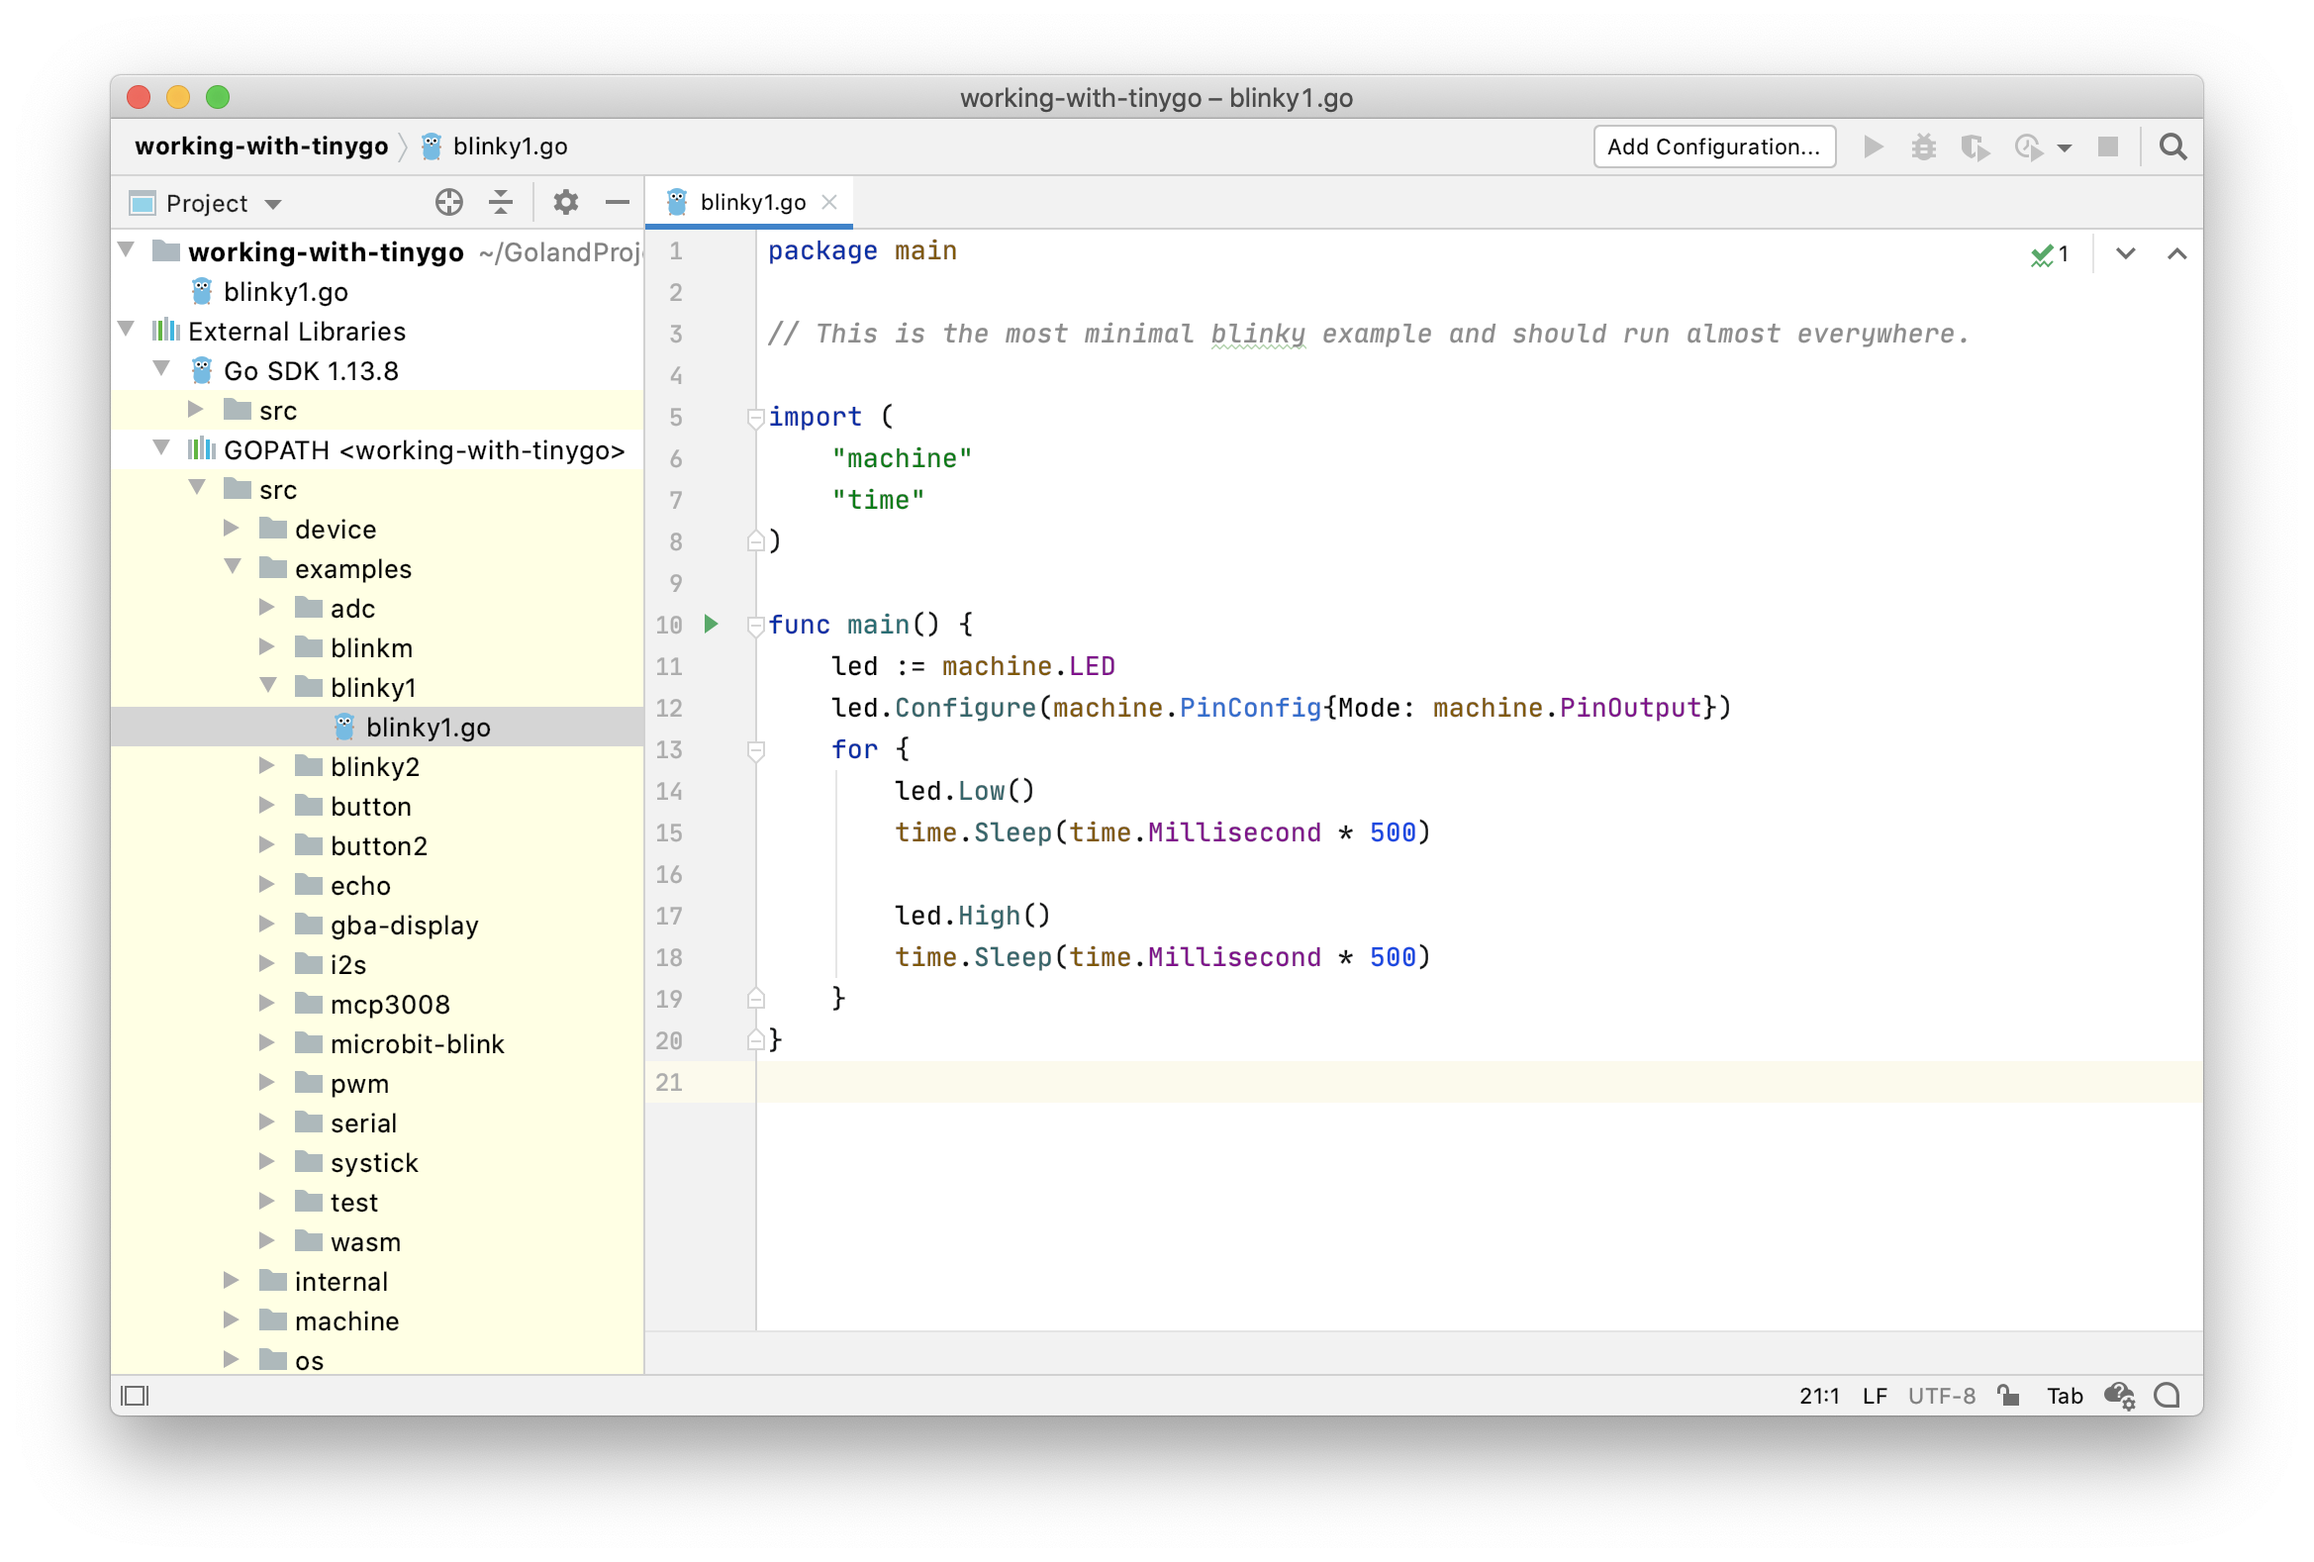
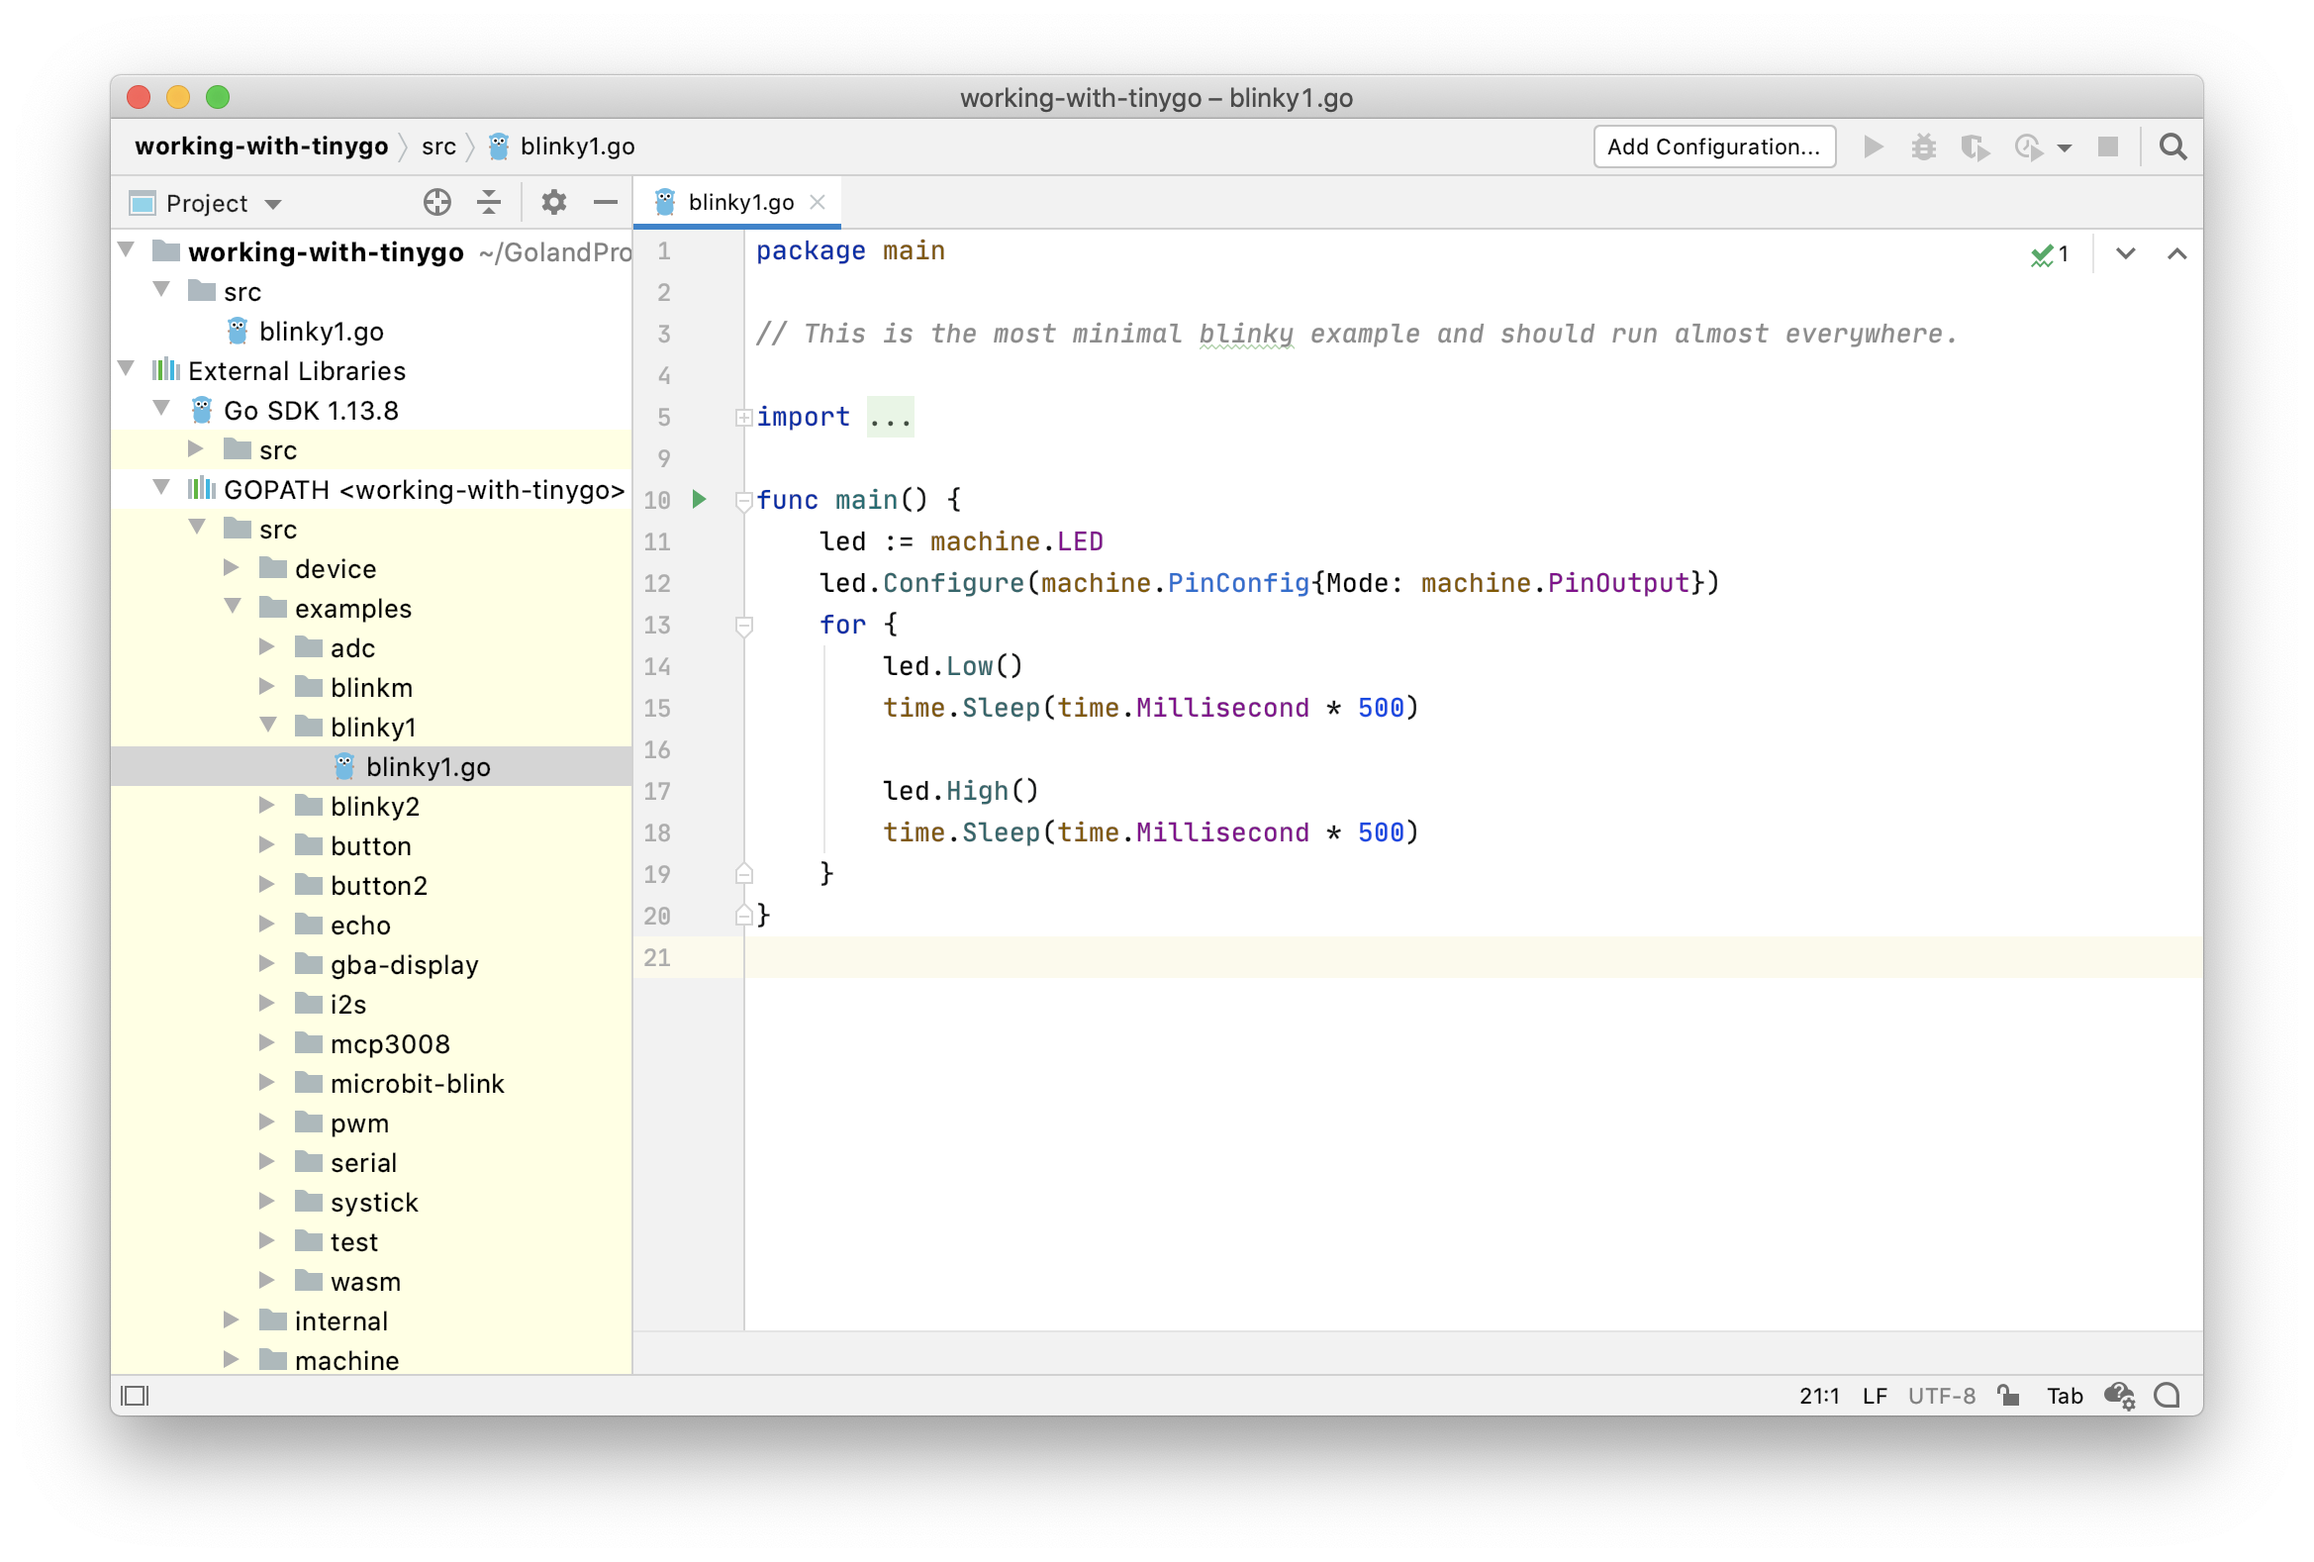
update working-with-tinygo-in-goland post with proper usage of GOPATH

diff --git a/content/posts/working-with-tinygo-in-goland.md b/content/posts/working-with-tinygo-in-goland.md
@@ -27,23 +27,23 @@ brew install avr-gcc
 brew install avrdude
 ```
 
-2. Open GoLand and start creating a new project.
+2. Open GoLand and start creating a new project. It's better to locate it outside of your regular `GOPATH` to avoid unnecessary dependencies.
 
 ![New Project](/images/working-with-tinygo-in-goland/new-project.png)
 
-At the moment of writing, that latest version of TinyGo (0.12.0) doesn't work with the latest version of Go (1.14). Thus let's use Go 1.13.8. Click on the plus button and choose _Download..._ 
+Please note that _Index entire GOPATH_ from the previous picture should be unchecked for now; otherwise, GoLand might perform some unnecessary indexing. We'll get back to this setting later.
+
+At the moment of writing, the latest version of TinyGo (0.12.0) doesn't support the latest version of Go (1.14). Thus let's use Go 1.13.8. Click on the plus button and choose _Download..._ if you don't yet have it installed.
 
 ![Download Go SDK](/images/working-with-tinygo-in-goland/download-go-sdk.png)
 
-Please note that _Index entire GOPATH_ from the previous picture should be unchecked for now; otherwise, GoLand will perform some unnecessary indexing. We'll get back to this setting later.
-
-3. Now open _Preferences | Go | GOPATH_ and point _Project GOPATH_ to the TinyGo installation. On macOS, it's located under `/usr/local/Cellar/tinygo/0.12.0`. You might need the help of [Command+Shift+Period](https://osxdaily.com/2011/03/01/show-hidden-files-in-mac-os-x-dialog-boxes-with-commandshiftperiod/) to find this path using the native file chooser.
+3. Now open _Preferences | Go | GOPATH_ and point _Project GOPATH_ to the TinyGo installation. On macOS, it's located under `/usr/local/Cellar/tinygo/0.12.0`. You might need the help of [Command+Shift+Period](https://osxdaily.com/2011/03/01/show-hidden-files-in-mac-os-x-dialog-boxes-with-commandshiftperiod/) to find this path using the native file chooser. Additionally, add the project directory to the list. It allows using packages in your project.
 
 ![GOPATH](/images/working-with-tinygo-in-goland/gopath.png)
 
 Also, this is a good time to check _Index entire GOPATH_ back; otherwise, GoLand won't find TinyGo SDK files. 
 
-4. Let's get back to the IDE for a second by pressing _OK_. GoLand will start building indices. While it shouldn't take long as now `GOPATH` consists only of a few files, there's no need to wait for it to finish. Open _View | Tool Windows | Terminal_. Run `tinygo info -target arduino` there. Don't forget to replace `arduino` with a target that's suitable for you.
+4. Let's get back to the IDE for a second by pressing _OK_. GoLand starts building indices. While it shouldn't take long as now `GOPATH` consists only of a few files, there's no need to wait for it to finish. Open _View | Tool Windows | Terminal_. Run `tinygo info -target arduino` there. Don't forget to replace `arduino` with a target that's suitable for you.
 
 ![Terminal](/images/working-with-tinygo-in-goland/terminal.png)
 
@@ -55,7 +55,7 @@ Remember `GOOS` and `GOARCH`, and copy `build tags` to a clipboard. We'll use th
 
 Don't forget to close the dialog with the _OK_ button to save the settings.
 
-6. That's it for the configuration. Let's now check how GoLand works. Copy `/src/examples/blinky1/blinky1.go` to the newly created project.
+6. That's it for the configuration. Let's now check how GoLand works. Copy `/src/examples/blinky1/blinky1.go` to the `src` directory of the newly created project. The trick with `src` makes the project looks like `GOPATH` so you can use packages inside.
 
 ![Blinky](/images/working-with-tinygo-in-goland/blinky.png)
 
@@ -74,11 +74,11 @@ flash:
 	tinygo flash -target=arduino -port=/dev/tty.usbmodem14301 blinky1.go
 ```
 
-You can now run this command right from the IDE using the little green triangle in the gutter. If your system's `GOPATH` points to the correct version, it should just work. Otherwise, a bit of a configuration is necessary.
+![Makefile](/images/working-with-tinygo-in-goland/makefile.png)
 
-![Makefile](/images/working-with-tinygo-in-goland/makefile.png) 
+You can now run this command right from the IDE using the little green triangle in the gutter. If your system's `GOROOT` points to the correct version, it should just work. Otherwise, a bit of a configuration is necessary. 
 
-9. Open _Run | Edit Configurations..._ Select _flash_ and add `GOROOT=/Users/artspb/go/go1.13.8` to _Environment variables_.
+9. Open _Run | Edit Configurations..._ Select _flash_ and add `GOROOT=/Users/artspb/go/go1.13.8;GOPATH=/Users/artspb/GolandProjects/working-with-tinygo` to _Environment variables_.
 
 ![Run Configurations](/images/working-with-tinygo-in-goland/run-configurations.png)
 
@@ -91,5 +91,7 @@ You can now run this command right from the IDE using the little green triangle 
 * If something doesn't work, check that the integration is disabled under _Preferences | Go | Go Modules_. As for now, TinyGo doesn't work well with `go list`. 
 
 I hope this tutorial was useful for you. As always, I appreciate any feedback. Please share it here or anywhere where you can find me.
+
+**Update.** You can find [the example project](https://github.com/artspb/working-with-tinygo) that we've created on GitHub.
 
 {{< tweet 1238190068101263362 >}}
